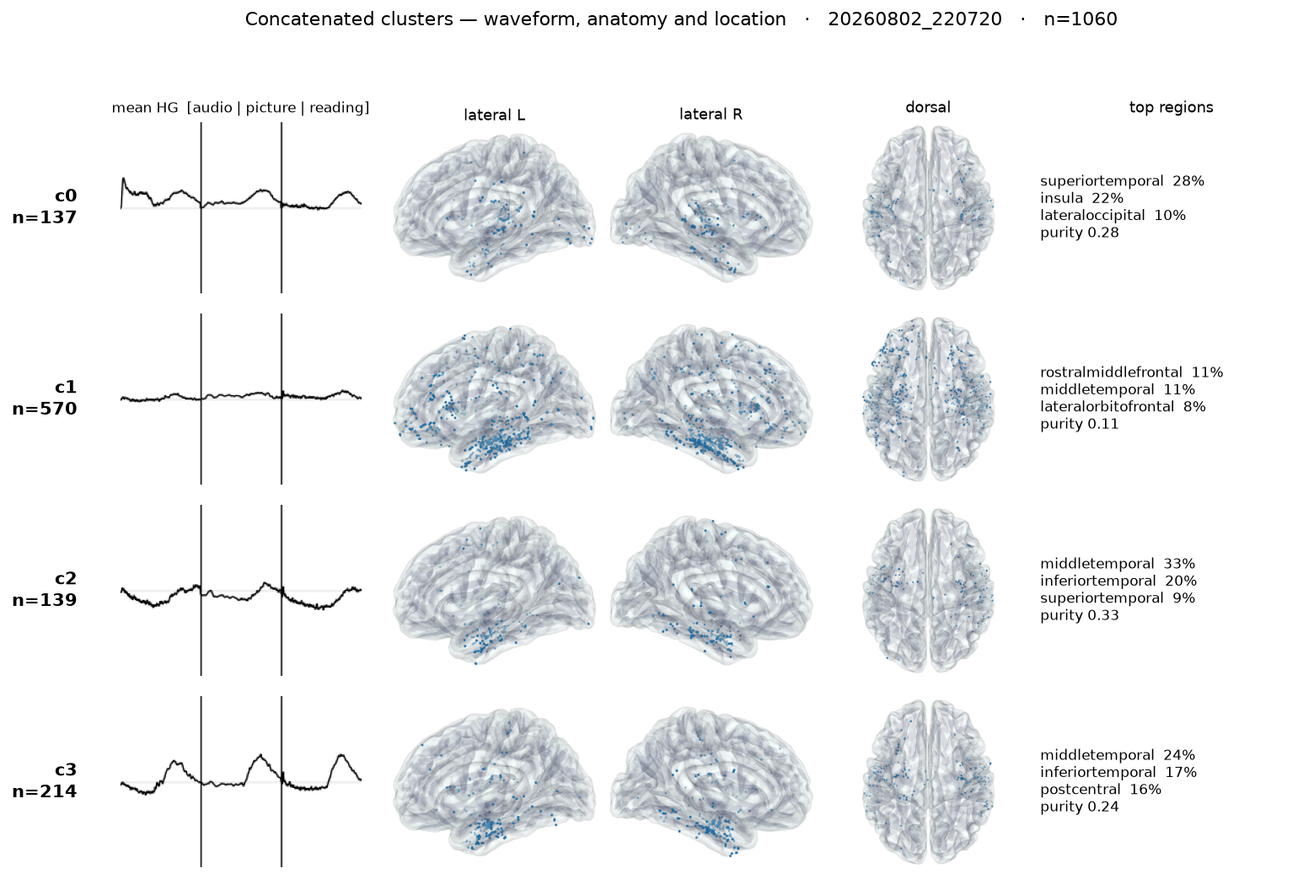
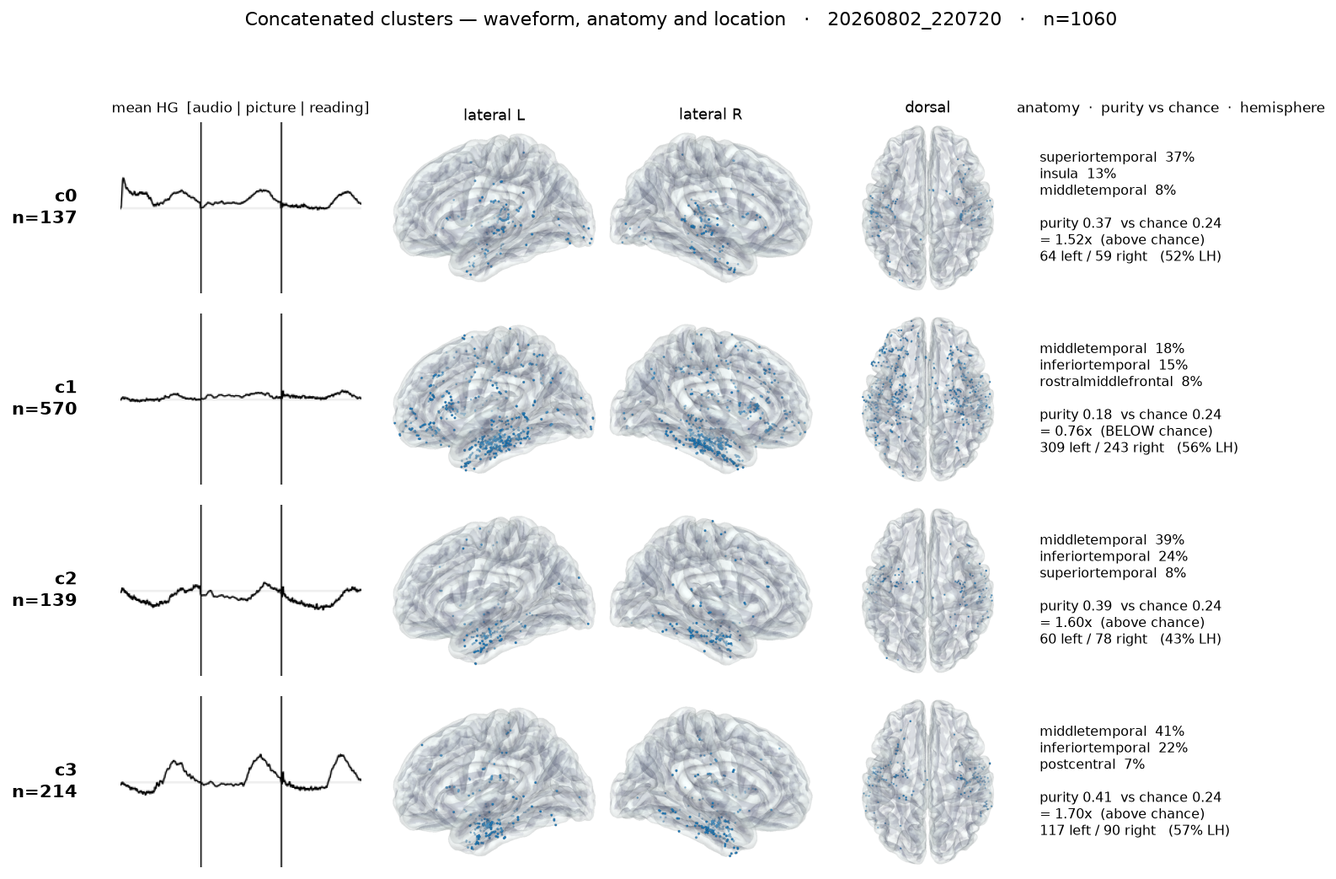
fix the aparc join, purity vs chance, noisy shafts, full-range lag view
THE ANATOMY LABELS WERE WRONG, and the figure shipped yesterday displayed them.
lf_anatomy keyed its aparc lookup on the RAW electrode string. The cache stores
"AL1"; a run's labels.csv carries "A_L1". 45% of contacts therefore fell into
"unknown" and the pipeline reported that as anatomy rather than as a failed join.

  raw        582/1060 matched
  normalised 1020/1060 matched
  and the largest cluster's top region changed rostralmiddlefrontal -> middletemporal

Third instance of the same bug class after the recon aI/al homoglyph. The real
lesson is that no join here asserted its own yield, so lf_anatomy now warns above
30% unmatched.

PURITY WAS UNINTERPRETABLE AS REPORTED. I had written "purity is low (0.11-0.33),
the anatomical form of the modest silhouette" — unfalsifiable without a baseline.
Chance purity here is 0.24 (30 regions, skewed). Against it:
  c0 1.52x, c2 1.60x, c3 1.70x  (all p<0.001)   c1 0.76x — BELOW chance
So three clusters are genuinely anatomically coherent, which my caption denied, and
the 570-contact majority class is anatomically unstructured — a sharper statement
than "all low". Cards now show the ratio, the verdict and hemisphere counts
(43-57% LH: these types are not left-lateralised).

NOISY SHAFTS. PAT_3415 IMG/TA/IPG excluded for signal quality. Kept separate from
GRID_SHAFTS because the reason differs — a grid contact is a valid recording of the
wrong kind, these are unusable. Applied in prepare_dataset so per-condition and
[…]

diff --git a/analysis_status.html b/analysis_status.html
@@ -623,9 +623,22 @@
         <li><b>How to read it.</b> Blue spheres are that cluster's electrodes; the translucent shell is
           the fsaverage surface, drawn for shape only. Each lateral shows <b>only its own hemisphere</b>,
           both seen from <b>outside</b>, so comparing L with R is a genuine left/right comparison.
-          <b>Purity</b> is the fraction of the cluster in its single commonest region — all four are
-          low (0.11–0.33), which is the anatomical form of the modest silhouette: these clusters are
-          functional types spread across cortex, not territories.</li>
+          <b>Purity is reported against chance</b>, not raw. With 30 regions and a skewed
+          distribution a random draw already reaches 0.24, so a raw purity of 0.18 is <i>below</i>
+          chance and 0.41 is genuinely coherent — the raw number alone says nothing. Three of the four
+          clusters are <b>1.5–1.7&times; chance</b> (p &lt; 0.001); <b>c1 is 0.76&times;, i.e. below chance</b>,
+          which is what you would expect of a leftover bin holding 54% of the data.</li>
+        <li><b>The region labels were wrong until 3 Aug.</b> Half the contacts were reported as
+          "unknown", which read as an anatomical fact and was actually a <b>join failure</b>: the aparc
+          cache stores electrodes stripped (<code>AL1</code>) while a run's labels carry the clinical
+          spelling (<code>A_L1</code>), and the lookup keyed on the raw string. Normalising both sides
+          took the match from <b>55% to 96%</b> and <b>changed the largest cluster's top region</b> from
+          <code>rostralmiddlefrontal</code> to <code>middletemporal</code>. Same class of bug as the
+          recon <code>aI</code>/<code>al</code> homoglyph, in a module that was not checked when that one
+          was fixed.</li>
+        <li><b>Hemisphere counts</b> are given per cluster. They are close to balanced (43–57% LH),
+          which is worth stating plainly for a language study — these functional types are not
+          left-lateralised.</li>
         <li><b>Dot density reflects where electrodes were implanted</b> (clinical decisions). An empty
           region means "not sampled", never "not involved".</li>
       </ul></div>
@@ -680,6 +693,21 @@
           and treat the exact percentage as approximate.</li>
       </ul></div>
       <div class="imgwrap"><img data-fig="02_FBM_Clustering/outputs/clustering/kmeans/concat_hg/runs/20260802_220720/timing/xcorr_K10_ref-c1_response.png" alt="cross-correlation lag profiles"></div>
+    </figure>
+
+    <figure><div class="cap"><div class="fignum">FIG 2.19</div><h4>The same profiles over the full lag range</h4>
+      <ul>
+        <li>The figure above is cropped to the trustworthy window. This is the <b>whole</b> lag axis
+          (±47% of the trial) with <b>y fixed to the full [−1, +1]</b>, so nothing is hidden by
+          auto-scaling.</li>
+        <li><b>Why the crop exists.</b> The shaded band is ±20%, where the two segments still overlap by
+          at least 60%. Outside it the correlation is computed on a shrinking tail and swings back toward
+          ±1 — the wild oscillation past ±40% is that artefact, not structure. Reading a peak from
+          out there would be reading noise.</li>
+        <li>Curves are dashed wherever the interpretability gate fails at that lag range, so the solid
+          ones are those whose peak survives the wider search.</li>
+      </ul></div>
+      <div class="imgwrap"><img data-fig="02_FBM_Clustering/outputs/clustering/kmeans/concat_hg/runs/20260802_220720/timing/xcorr_K10_ref-c1_response_fullrange.png" alt="full lag range"></div>
     </figure>
   </section>
 
@@ -1388,7 +1416,8 @@
     <p class="lead">A dated log across the four stages. Every day lists all four, so a blank is explicit &mdash;
       <span class="nb-na">N/A</span> means that stage was untouched, not that the entry is missing.
       Newest first; links jump to the relevant tab.</p>
-<div class="nb-day"><div class="nb-date"><span>2026-08-02</span><span class="tag">clean cohort + lead/lag</span></div><div class="nb-row"><div class="nb-stage">01 &middot; ERSP</div><div class="nb-body"><span class="nb-na">N/A</span></div></div><div class="nb-row"><div class="nb-stage">02 &middot; Clustering</div><div class="nb-body"><ul><li>Grid exclusion moved to <b>contact</b> level &mdash; PAT_3415 keeps its 51 depth electrodes, loses its 64 grid contacts. 233 re-run: <b>1116 &rarr; 1060</b>. Silhouette 0.195 &rarr; 0.164, best K 5 &rarr; 4.</li><li>Whole site repointed at the clean run; <a href="#s2">FIG 2.8/2.11</a> rebuilt, <a href="#s2">FIG 2.17</a> (glassbrain recon) added.</li><li>New <code>215_concat_crosscorrelation</code> &mdash; lead/lag against the auditory cluster. Found the full-trial window invalid (0/8 lags agree with real timing) and the response window valid (8/8); the label-shuffle null on <i>r</i> is useless (p=1.000), so the bootstrap CI is the reported statistic. <a href="#s2">FIG 2.18</a>.</li><li>Two more rejected matplotlib renders found still in place (FIG 2.8 anatomy chips, FIG 2.9) and replaced with the project glassbrain.</li></ul></div></div><div class="nb-row"><div class="nb-stage">03 &middot; Decoding</div><div class="nb-body"><span class="nb-na">N/A</span></div></div><div class="nb-row"><div class="nb-stage">04 &middot; Pooling</div><div class="nb-body"><ul><li>ERSP &times; P(language) map redrawn in <code>berlin</code>, overlays stripped. It only existed as ad-hoc cells, so it is now <code>make_fedorenko_corr.py</code> and reproducible: 2724 contacts, 26.3% of bins survive FDR.</li></ul></div></div></div>
+<div class="nb-day"><div class="nb-date"><span>2026-08-03</span><span class="tag">a third unnormalised join</span></div><div class="nb-row"><div class="nb-stage">01 &middot; ERSP</div><div class="nb-body"><ul><li><code>PAT_3415</code> <code>IMG/TA/IPG</code> shafts excluded as noise-contaminated, in <code>prepare_dataset</code> so every track inherits it; added to the dataset cache key.</li></ul></div></div><div class="nb-row"><div class="nb-stage">02 &middot; Clustering</div><div class="nb-body"><ul><li><b>Anatomy labels were wrong.</b> <code>lf_anatomy</code> keyed its aparc join on the raw electrode string, so 45% of contacts fell into &quot;unknown&quot; and that read as anatomy. Normalised: <b>55% &rarr; 96% matched</b>, and the largest cluster's top region changed. Third instance of the same bug class. <a href="#integrity">Data integrity</a>.</li><li>Purity now reported <b>against chance</b> (0.24 with 30 regions): c0/c2/c3 are 1.5&ndash;1.7&times;, <b>c1 is 0.76&times; &mdash; below chance</b>. Cards gain hemisphere counts. <a href="#s2">FIG 2.17</a>.</li><li>Added the full-range lag view. <a href="#s2">FIG 2.19</a>.</li></ul></div></div><div class="nb-row"><div class="nb-stage">03 &middot; Decoding</div><div class="nb-body"><span class="nb-na">N/A</span></div></div><div class="nb-row"><div class="nb-stage">04 &middot; Pooling</div><div class="nb-body"><span class="nb-na">N/A</span></div></div></div>
+        <div class="nb-day"><div class="nb-date"><span>2026-08-02</span><span class="tag">clean cohort + lead/lag</span></div><div class="nb-row"><div class="nb-stage">01 &middot; ERSP</div><div class="nb-body"><span class="nb-na">N/A</span></div></div><div class="nb-row"><div class="nb-stage">02 &middot; Clustering</div><div class="nb-body"><ul><li>Grid exclusion moved to <b>contact</b> level &mdash; PAT_3415 keeps its 51 depth electrodes, loses its 64 grid contacts. 233 re-run: <b>1116 &rarr; 1060</b>. Silhouette 0.195 &rarr; 0.164, best K 5 &rarr; 4.</li><li>Whole site repointed at the clean run; <a href="#s2">FIG 2.8/2.11</a> rebuilt, <a href="#s2">FIG 2.17</a> (glassbrain recon) added.</li><li>New <code>215_concat_crosscorrelation</code> &mdash; lead/lag against the auditory cluster. Found the full-trial window invalid (0/8 lags agree with real timing) and the response window valid (8/8); the label-shuffle null on <i>r</i> is useless (p=1.000), so the bootstrap CI is the reported statistic. <a href="#s2">FIG 2.18</a>.</li><li>Two more rejected matplotlib renders found still in place (FIG 2.8 anatomy chips, FIG 2.9) and replaced with the project glassbrain.</li></ul></div></div><div class="nb-row"><div class="nb-stage">03 &middot; Decoding</div><div class="nb-body"><span class="nb-na">N/A</span></div></div><div class="nb-row"><div class="nb-stage">04 &middot; Pooling</div><div class="nb-body"><ul><li>ERSP &times; P(language) map redrawn in <code>berlin</code>, overlays stripped. It only existed as ad-hoc cells, so it is now <code>make_fedorenko_corr.py</code> and reproducible: 2724 contacts, 26.3% of bins survive FDR.</li></ul></div></div></div>
         <div class="nb-day"><div class="nb-date"><span>2026-08-02</span><span class="tag">cluster timing</span></div><div class="nb-row"><div class="nb-stage">01 &middot; ERSP</div><div class="nb-body"><span class="nb-na">N/A</span></div></div><div class="nb-row"><div class="nb-stage">02 &middot; Clustering</div><div class="nb-body"><ul><li>New <code>214_concat_timingranking</code> + <code>lf_cluster_timing.py</code> &mdash; onset ordering for clusters, onset definition identical to pooling. <a href="#s2">FIG 2.11</a>.</li><li>Split onset into <b>stimulus</b> (0&ndash;50%) and <b>response</b> (50&ndash;100%) windows; flagged carry-over onsets (5 of 15 cells at K=5 were already active at GO).</li><li>Rewrote the across-K figure after finding it misleading: added lineage tracking, the cluster-size confound (rho +0.50 to +0.53) and coverage. <a href="#s2">FIG 2.12</a>.</li><li>Fixed colours disagreeing between the ladder and the time course; combined them into one shared-x panel.</li></ul></div></div><div class="nb-row"><div class="nb-stage">03 &middot; Decoding</div><div class="nb-body"><span class="nb-na">N/A</span></div></div><div class="nb-row"><div class="nb-stage">04 &middot; Pooling</div><div class="nb-body"><ul><li>Found that 460 never persists the role onsets it computes &mdash; blocks the cluster-vs-role comparison.</li></ul></div></div></div>
         <div class="nb-day"><div class="nb-date"><span>2026-08-02</span><span class="tag">atlas + K selection</span></div><div class="nb-row"><div class="nb-stage">01 &middot; ERSP</div><div class="nb-body"><span class="nb-na">N/A</span></div></div><div class="nb-row"><div class="nb-stage">02 &middot; Clustering</div><div class="nb-body"><ul><li>Excluded <b>PAT_3415</b>'s 64-contact grid (<code>GA&hellip;GH</code>) from the concatenated track &mdash; at <b>contact</b> level, so its 51 depth electrodes are kept. Sample count 1116 &rarr; <b>1060</b> on re-run.</li><li>Scored <b>every K</b> in the sweep, not just the winner &rarr; <code>sweep_metrics.csv</code> (silhouette, Calinski-Harabasz, Davies-Bouldin, singletons, size CV).</li><li>Rebuilt <a href="#s2">FIG 2.2</a> horizontal and sortable by any criterion; flags singleton-producing K in red. Surfaced that every K &ge; 13 except 15 emits a singleton.</li></ul></div></div><div class="nb-row"><div class="nb-stage">03 &middot; Decoding</div><div class="nb-body"><span class="nb-na">N/A</span></div></div><div class="nb-row"><div class="nb-stage">04 &middot; Pooling</div><div class="nb-body"><ul><li>Fixed the LanA run &mdash; <code>labels.csv</code> had no <code>file_path</code>, which blocked 252 and broke MOBA.</li><li>Built 6 LanA partitions as clustering runs so the project glassbrain renders them: 2 cohorts &times; (P&ge;0.05, P&ge;0.10, 5-band continuous). <a href="#lana">FIG 3a.R1&ndash;R3</a>.</li><li>Fixed inside-out lateral views in <code>lf_brainview</code> &mdash; both hemispheres were drawn medially.</li></ul></div></div></div><div class="nb-day"><div class="nb-date"><span>2026-08-01</span><span class="tag">recon payoff</span></div><div class="nb-row"><div class="nb-stage">01 &middot; ERSP</div><div class="nb-body"><span class="nb-na">N/A</span></div></div><div class="nb-row"><div class="nb-stage">02 &middot; Clustering</div><div class="nb-body"><ul><li>Ran 252 on the post-fix runs &mdash; <b>23/25</b> registered runs now have a recon. Concat reports <code>1060 electrodes (clean cohort)</code>, all six white matter.</li><li>Pruned 14 phantom <code>index.json</code> entries (39 registered vs 25 on disk).</li><li>Fixed the 213 crash (atlas run carries no silhouette) and added <code>concat_hg</code> to the ranked sets.</li><li>Freed 562.8 MB of unreferenced runs via <code>cleanup_stale.py</code>.</li></ul></div></div><div class="nb-row"><div class="nb-stage">03 &middot; Decoding</div><div class="nb-body"><span class="nb-na">N/A</span></div></div><div class="nb-row"><div class="nb-stage">04 &middot; Pooling</div><div class="nb-body"><ul><li>Re-ran 460 &mdash; <b>the export gap closed</b>. All 1143 role-matched contacts reach <code>pool_web</code>, which grew <b>2644 &rarr; 2724</b>.</li></ul></div></div></div><div class="nb-day"><div class="nb-date"><span>2026-07-31</span><span class="tag">the recon fix</span></div><div class="nb-row"><div class="nb-stage">01 &middot; ERSP</div><div class="nb-body"><ul><li>Excluded GVA microelectrodes and the discarded <code>X1M/X2M</code> channels from the macro pipelines.</li></ul></div></div><div class="nb-row"><div class="nb-stage">02 &middot; Clustering</div><div class="nb-body"><ul><li>Diagnosed the recon gap: <b>not</b> missing localisation &mdash; an <code>aI</code>/<code>al</code> homoglyph plus four shaft-naming conventions. <b>126 unplottable &rarr; 8</b>, no FreeSurfer re-run.</li><li>Wrote <code>audit_coverage.py</code> &mdash; per-patient, 5-stage drop-out audit reporting only failures. <a href="#integrity">Data integrity</a>.</li></ul></div></div><div class="nb-row"><div class="nb-stage">03 &middot; Decoding</div><div class="nb-body"><span class="nb-na">N/A</span></div></div><div class="nb-row"><div class="nb-stage">04 &middot; Pooling</div><div class="nb-body"><span class="nb-na">N/A</span></div></div></div><div class="nb-day"><div class="nb-date"><span>2026-07-29</span><span class="tag">atlas as a run</span></div><div class="nb-row"><div class="nb-stage">01 &middot; ERSP</div><div class="nb-body"><span class="nb-na">N/A</span></div></div><div class="nb-row"><div class="nb-stage">02 &middot; Clustering</div><div class="nb-body"><span class="nb-na">N/A</span></div></div><div class="nb-row"><div class="nb-stage">03 &middot; Decoding</div><div class="nb-body"><span class="nb-na">N/A</span></div></div><div class="nb-row"><div class="nb-stage">04 &middot; Pooling</div><div class="nb-body"><ul><li>Registered the LanA in/out split as a normal clustering run so 252 renders it; added the Desikan-Killiany gyrus breakdown.</li></ul></div></div></div><div class="nb-day"><div class="nb-date"><span>2026-07-28</span><span class="tag">language atlas</span></div><div class="nb-row"><div class="nb-stage">01 &middot; ERSP</div><div class="nb-body"><span class="nb-na">N/A</span></div></div><div class="nb-row"><div class="nb-stage">02 &middot; Clustering</div><div class="nb-body"><ul><li>Concatenated clustering &mdash; all 6 runs + per-cluster centroid chips. <code>concat_hg</code> beats per-condition (0.201 vs 0.152).</li></ul></div></div><div class="nb-row"><div class="nb-stage">03 &middot; Decoding</div><div class="nb-body"><span class="nb-na">N/A</span></div></div><div class="nb-row"><div class="nb-stage">04 &middot; Pooling</div><div class="nb-body"><ul><li>Fedorenko/LanA analysis: threshold sweep, ERSP &times; P(language) correlation maps, in/out split. <a href="#lana">3a</a>.</li><li>Fig 8 per-bin scatters and Fig 9 recoloured green&rarr;yellow to the supervisor's spec.</li><li>Multi-label attribution matrices &mdash; 70% of Neurosynth-loaded contacts cleanly attributable, 30% multi-load.</li></ul></div></div></div><div class="nb-day"><div class="nb-date"><span>2026-07-19</span><span class="tag">full refresh</span></div><div class="nb-row"><div class="nb-stage">01 &middot; ERSP</div><div class="nb-body"><span class="nb-na">N/A</span></div></div><div class="nb-row"><div class="nb-stage">02 &middot; Clustering</div><div class="nb-body"><ul><li>HG re-clustered, <b>K=9</b>, silhouette 0.152, n=2102, with consensus stability.</li></ul></div></div><div class="nb-row"><div class="nb-stage">03 &middot; Decoding</div><div class="nb-body"><ul><li>Notebooks regenerated from <code>_build_notebooks.py</code>; comparison figures + &Delta;-confusion rebuilt. <a href="#s3">stage 03</a>.</li></ul></div></div><div class="nb-row"><div class="nb-stage">04 &middot; Pooling</div><div class="nb-body"><ul><li>Re-ran 460/465/470/480/490 &mdash; refreshed figures and the gaussian variant.</li></ul></div></div></div><div class="nb-day"><div class="nb-date"><span>2026-07-06</span><span class="tag"></span></div><div class="nb-row"><div class="nb-stage">01 &middot; ERSP</div><div class="nb-body"><span class="nb-na">N/A</span></div></div><div class="nb-row"><div class="nb-stage">02 &middot; Clustering</div><div class="nb-body"><span class="nb-na">N/A</span></div></div><div class="nb-row"><div class="nb-stage">03 &middot; Decoding</div><div class="nb-body"><ul><li>391 paired feature comparison &mdash; per-patient Wilcoxon + &Delta;-confusion. Confirmed HFA beats the full band (0.596 vs 0.535).</li></ul></div></div><div class="nb-row"><div class="nb-stage">04 &middot; Pooling</div><div class="nb-body"><span class="nb-na">N/A</span></div></div></div><div class="nb-day"><div class="nb-date"><span>2026-07-03</span><span class="tag"></span></div><div class="nb-row"><div class="nb-stage">01 &middot; ERSP</div><div class="nb-body"><span class="nb-na">N/A</span></div></div><div class="nb-row"><div class="nb-stage">02 &middot; Clustering</div><div class="nb-body"><ul><li>Single centroid writer (per-K, no leakage) + SEM shading on the HG centroids.</li></ul></div></div><div class="nb-row"><div class="nb-stage">03 &middot; Decoding</div><div class="nb-body"><span class="nb-na">N/A</span></div></div><div class="nb-row"><div class="nb-stage">04 &middot; Pooling</div><div class="nb-body"><span class="nb-na">N/A</span></div></div></div><div class="nb-day"><div class="nb-date"><span>2026-07-01</span><span class="tag"></span></div><div class="nb-row"><div class="nb-stage">01 &middot; ERSP</div><div class="nb-body"><span class="nb-na">N/A</span></div></div><div class="nb-row"><div class="nb-stage">02 &middot; Clustering</div><div class="nb-body"><ul><li><code>silhouette_per_cluster.png</code> &rarr; knife plot + PCA projection.</li></ul></div></div><div class="nb-row"><div class="nb-stage">03 &middot; Decoding</div><div class="nb-body"><span class="nb-na">N/A</span></div></div><div class="nb-row"><div class="nb-stage">04 &middot; Pooling</div><div class="nb-body"><ul><li>poolv2: wired the HGA dB gradient onto electrodes, fixed the single-role multi-colour bug and palette clashes.</li></ul></div></div></div><div class="nb-day"><div class="nb-date"><span>2026-06-30</span><span class="tag">convergence</span></div><div class="nb-row"><div class="nb-stage">01 &middot; ERSP</div><div class="nb-body"><span class="nb-na">N/A</span></div></div><div class="nb-row"><div class="nb-stage">02 &middot; Clustering</div><div class="nb-body"><span class="nb-na">N/A</span></div></div><div class="nb-row"><div class="nb-stage">03 &middot; Decoding</div><div class="nb-body"><span class="nb-na">N/A</span></div></div><div class="nb-row"><div class="nb-stage">04 &middot; Pooling</div><div class="nb-body"><ul><li>Fixed poolv2 &harr; notebook convergence &mdash; <b>194+ role-match flips &rarr; 0</b> (block-mean vs anti-aliased resize, plus cube quantisation).</li><li>Restored the developed premotor-planning role; fixed <code>role_info</code> UTF-8 corruption.</li></ul></div></div></div>
   </section>
@@ -1502,6 +1531,32 @@
         thing. Excluded from the concatenated track only.</li>
     </ul></div>
 
+    <h3>The same bug, a third time — unnormalised joins</h3>
+    <p>The recon gap was an <code>aI</code>/<code>al</code> mismatch. The anatomy labels turned out to be
+      the same failure in a different module, and it had been silently degrading every purity estimate.</p>
+    <div class="method"><ul>
+      <li><code>lf_anatomy</code> keyed its aparc lookup on the <b>raw</b> electrode string. The cache
+        stores <code>AL1</code>; a run's <code>labels.csv</code> carries <code>A_L1</code>. Result:
+        <b>45% of contacts fell into "unknown"</b> and the pipeline reported it as anatomy.</li>
+      <li>Normalising both sides: <b>582/1060 &rarr; 1020/1060 matched</b>. Purity rose in every cluster and
+        the <b>largest cluster's top region changed</b>.</li>
+      <li>The lesson is not "fix this join" but that <b>no join in this pipeline asserted its own yield</b>.
+        <code>lf_anatomy</code> now warns when more than 30% of contacts fail to match, because at that
+        level the explanation is almost never "these contacts are unlocalised".</li>
+    </ul></div>
+
+    <h3>Noise-contaminated shafts</h3>
+    <div class="method"><ul>
+      <li><code>PAT_3415</code>'s <code>IMG</code>, <code>TA</code> and <code>IPG</code> shafts are heavily
+        noise-contaminated and are now excluded, leaving <code>OI</code>, <code>OS</code>, <code>TM</code>,
+        <code>TP</code> as its usable depth coverage.</li>
+      <li>Kept <b>separate from the grid rule</b> on purpose: a grid contact is a valid recording of the
+        wrong kind, whereas these are unusable. Different reasons should not share a list.</li>
+      <li>Applied in <code>prepare_dataset</code>, so <b>every</b> track drops them — per-condition and
+        concatenated alike — and the exclusion is part of the dataset cache key, so a cache built before
+        the shaft was blacklisted cannot be silently reused.</li>
+    </ul></div>
+
     <h3>Registry repairs</h3>
     <div class="method"><ul>
       <li><b>The clustering registry crashed every run.</b> Registering the language‑atlas partition wrote bare
@@ -1538,6 +1593,11 @@
 
     <h3>Still to run</h3>
     <div class="method"><ul>
+      <li><b>Re-run everything (3 Aug changes).</b> Two changes invalidate the current runs:
+        <code>PAT_3415</code>'s noisy <code>IMG/TA/IPG</code> shafts are now excluded from
+        <b>all</b> tracks, and the aparc join is fixed. Order: 233 &rarr; 211 &rarr; 213 &rarr; 252,
+        then 214/215 and <code>make_cluster_cards.py</code>. Every cluster count and every anatomy
+        label on this page predates both fixes.</li>
       <li><b>Re‑run the concatenated clustering (233).</b> <code>PAT_3415</code>'s subdural grid was still in
         it. The exclusion is now at <b>contact</b> level, not patient level: its <b>56 grid contacts</b>
         (<code>GA…GH</code>) are dropped while its <b>51 depth contacts</b>

diff --git a/02_FBM_Clustering/make_cluster_cards.py b/02_FBM_Clustering/make_cluster_cards.py
@@ -53,6 +53,26 @@ def crop_to_content(path: Path, pad: int = 12, thr: int = 245):
     return a[y0:y1, x0:x1]
 
 
+def chance_purity(labels_by_region: pd.Series, n: int, n_draw: int = 400, seed: int = 0) -> float:
+    """Purity a cluster of this size would reach by drawing regions at random.
+
+    Raw purity is uninterpretable on its own: with a skewed region distribution a
+    random draw already lands ~0.24 here, so a cluster at 0.18 is BELOW chance and one
+    at 0.41 is genuinely coherent. Reporting the ratio instead of the raw number is the
+    difference between "all our clusters are anatomically weak" and the truth.
+    """
+    rng = np.random.default_rng(seed)
+    vals = labels_by_region.to_numpy()
+    if n < 1 or len(vals) < n:
+        return float("nan")
+    out = np.empty(n_draw)
+    for i in range(n_draw):
+        s = rng.choice(vals, n, replace=False)
+        _, c = np.unique(s, return_counts=True)
+        out[i] = c.max() / n
+    return float(out.mean())
+
+
 def top_regions(anat: pd.DataFrame, cid: int, k: int = 3):
     row = anat[anat["cluster_id"] == cid]
     if not len(row):
@@ -142,8 +162,28 @@ def main() -> int:
     labels = pd.read_csv(run / "labels.csv")
     ccol = next(c for c in labels.columns if c.startswith("cluster_") and not c.endswith("_ranked"))
     sizes = labels[ccol].value_counts().to_dict()
-    anat_p = run / "per_cluster_anatomy.csv"
-    anat = pd.read_csv(anat_p) if anat_p.exists() else pd.DataFrame(columns=["cluster_id"])
+    # Recompute the region labels here with a NORMALISED join. per_cluster_anatomy.csv
+    # is written by 211, and any copy produced before the lf_anatomy fix keyed on the raw
+    # electrode string and dropped ~45% of contacts into "unknown".
+    def _nz(s):
+        return str(s).replace("_", "").replace("-", "").upper()
+
+    apath = ROOT / "outputs" / "250_recon" / "fsaverage" / "aparc_lookup.csv"
+    lut, hemi_lut = {}, {}
+    if apath.exists():
+        _ap = pd.read_csv(apath)
+        lut = {(str(q), _nz(e)): str(l)
+               for q, e, l in zip(_ap["patient"], _ap["electrode"], _ap["aparc_label"])}
+        if "hemi" in _ap.columns:
+            hemi_lut = {(str(q), _nz(e)): str(h)
+                        for q, e, h in zip(_ap["patient"], _ap["electrode"], _ap["hemi"])}
+    labels["_reg"] = [lut.get((str(q), _nz(e)), "unknown")
+                      for q, e in zip(labels["patient_id"], labels["electrode"])]
+    labels["_hemi"] = [hemi_lut.get((str(q), _nz(e)), "?")
+                       for q, e in zip(labels["patient_id"], labels["electrode"])]
+    known = labels[labels["_reg"] != "unknown"]
+    print(f"  region labels: {len(known)}/{len(labels)} matched "
+          f"({100*len(known)/max(len(labels),1):.0f}%)")
 
     ncol = 1 + len(VIEWS) + 1                       # waveform + views + text
     widths = [1.35] + [1.0] * len(VIEWS) + [1.25]
@@ -175,18 +215,30 @@ def main() -> int:
                 axb.set_title(v.replace("_", " "), fontsize=9)
 
         axt = axes[r, ncol - 1]
-        tops = top_regions(anat, cid)
-        if tops:
-            lines = [f"{nm[:22]}  {100*pr:.0f}%" for nm, pr in tops]
-            row = anat[anat["cluster_id"] == cid]
-            if len(row) and "purity" in row:
-                lines.append(f"purity {float(row.iloc[0]['purity']):.2f}")
+        sub = labels[labels[ccol] == cid]
+        kn = sub[sub["_reg"] != "unknown"]
+        lines = []
+        if len(kn):
+            vc = kn["_reg"].value_counts()
+            for nm, cnt in vc.head(3).items():
+                lines.append(f"{nm[:20]}  {100*cnt/len(kn):.0f}%")
+            pur = vc.iloc[0] / len(kn)
+            ch = chance_purity(known["_reg"], len(kn))
+            ratio = pur / ch if ch and np.isfinite(ch) else float("nan")
+            verdict = ("above chance" if ratio > 1.15 else
+                       "BELOW chance" if ratio < 0.95 else "at chance")
+            lines += ["", f"purity {pur:.2f}  vs chance {ch:.2f}",
+                      f"= {ratio:.2f}x  ({verdict})"]
         else:
-            lines = ["no anatomy table"]
-        axt.text(0.0, 0.5, "\n".join(lines), fontsize=8.6, va="center", ha="left",
-                 family="DejaVu Sans", transform=axt.transAxes)
+            lines = ["no region match"]
+        h = sub["_hemi"].astype(str).str.upper().str[0]
+        nl, nr = int((h == "L").sum()), int((h == "R").sum())
+        if nl + nr:
+            lines.append(f"{nl} left / {nr} right   ({100*nl/(nl+nr):.0f}% LH)")
+        axt.text(0.0, 0.5, "\n".join(lines), fontsize=8.4, va="center", ha="left",
+                 transform=axt.transAxes)
         if r == 0:
-            axt.set_title("top regions", fontsize=9)
+            axt.set_title("anatomy  ·  purity vs chance  ·  hemisphere", fontsize=8.5)
 
         for axx in axes[r]:
             axx.set_xticks([]); axx.set_yticks([])

diff --git a/02_FBM_Clustering/functions/lf_dataset.py b/02_FBM_Clustering/functions/lf_dataset.py
@@ -150,6 +150,28 @@ def is_grid_electrode(label, patient_id=None) -> bool:
     return re.sub(r"\d+$", "", s) in {x.upper() for x in shafts}
 
 
+# Shafts excluded for SIGNAL QUALITY rather than geometry — heavy noise contamination
+# judged from the raw traces. Distinct from GRID_SHAFTS because the reason is different:
+# a grid contact is a valid recording of the wrong kind, whereas these are unusable.
+# Applied in prepare_dataset, so EVERY track (per-condition and concatenated) drops them.
+#
+#   PAT_3415  IMG, TA, IPG — leaving OI, OS, TM, TP as its usable depth coverage.
+NOISY_SHAFTS: dict = {
+    "PAT_3415": ("IMG", "TA", "IPG"),
+}
+
+
+def is_noisy_electrode(label, patient_id=None) -> bool:
+    """True for a contact on a shaft listed in NOISY_SHAFTS for that patient."""
+    if label is None or patient_id is None:
+        return False
+    shafts = NOISY_SHAFTS.get(str(patient_id))
+    if not shafts:
+        return False
+    s = str(label).replace("_", "").replace("-", "").upper()
+    return re.sub(r"\d+$", "", s) in {x.upper() for x in shafts}
+
+
 # ============================================================
 # Public: prepare_dataset
 # ============================================================
@@ -191,6 +213,8 @@ def prepare_dataset(
         "task": task,
         "exclude_micro": bool(exclude_micro),   # part of the key: a cache built without
                                                 # the micro filter must not be reused
+        # Same reasoning: a cache built before a shaft was blacklisted still contains it.
+        "noisy_shafts": {k: sorted(v) for k, v in sorted(NOISY_SHAFTS.items())},
         "conditions": list(conditions),
         "n_freq": int(n_freq),
         "n_time": int(n_time),
@@ -292,6 +316,25 @@ def prepare_dataset(
             ersp_list = [ersp_list[i] for i in np.where(keep.to_numpy())[0]]
             if verbose:
                 print(f"  excluded {n_micro} microelectrode channels ({', '.join(shafts)}) "
+                      f"→ {len(df_meta)} samples")
+
+    # ---- Noise-contaminated shafts (per patient, see NOISY_SHAFTS) ----
+    # Excluded for signal quality, not geometry: unlike a grid contact these are not a
+    # valid recording of a different kind, they are unusable. Applied here rather than in
+    # lf_concat so the per-condition tracks drop them too.
+    if len(df_meta):
+        noisy_mask = df_meta.apply(
+            lambda r: is_noisy_electrode(r["electrode"], r["patient_id"]), axis=1)
+        n_noisy = int(noisy_mask.sum())
+        if n_noisy:
+            keep = ~noisy_mask
+            by = (df_meta.loc[noisy_mask].groupby("patient_id")["electrode"]
+                  .apply(lambda s: sorted({re.sub(r"\d+$", "", str(e).replace("_", "").upper())
+                                           for e in s})).to_dict())
+            df_meta = df_meta[keep].reset_index(drop=True)
+            ersp_list = [ersp_list[i] for i in np.where(keep.to_numpy())[0]]
+            if verbose:
+                print(f"  excluded {n_noisy} noise-contaminated channels {by} "
                       f"→ {len(df_meta)} samples")
 
     # ---- High-activity computation (always computed, optionally filtered) ----

diff --git a/02_FBM_Clustering/functions/lf_anatomy.py b/02_FBM_Clustering/functions/lf_anatomy.py
@@ -381,20 +381,36 @@ def cluster_anatomy_purity(
     df_aparc must have columns: patient, electrode, aparc_label
     df_labels must have the cluster col + patient_col + electrode_col.
     """
-    # Build a fast lookup
+    # Build a fast lookup.
+    #
+    # NORMALISE BOTH SIDES. The aparc cache stores electrodes stripped ("AL1") while a
+    # run's labels.csv carries the clinical spelling ("A_L1"), so keying on the raw
+    # string silently dropped 45% of contacts into "unknown" — a JOIN FAILURE that read
+    # as an anatomical fact and pushed every purity estimate down. Same class of bug as
+    # the recon aI/al homoglyph. Measured on kmeans/concat_hg 20260802_220720:
+    # raw 582/1060 matched, normalised 1020/1060, and the largest cluster's top region
+    # changed from rostralmiddlefrontal to middletemporal.
+    def _nz(s) -> str:
+        return str(s).replace("_", "").replace("-", "").upper()
+
     df_aparc = df_aparc.copy()
     df_aparc["patient"] = df_aparc["patient"].astype(str)
     df_aparc["electrode"] = df_aparc["electrode"].astype(str)
     lookup = {
-        (str(p), str(e)): str(lbl)
+        (str(p), _nz(e)): str(lbl)
         for p, e, lbl in zip(df_aparc["patient"], df_aparc["electrode"], df_aparc["aparc_label"])
     }
 
     df_l = df_labels.copy()
     df_l["aparc_label"] = [
-        lookup.get((str(p), str(e)), "unknown")
+        lookup.get((str(p), _nz(e)), "unknown")
         for p, e in zip(df_l[patient_col], df_l[electrode_col])
     ]
+    _miss = float((df_l["aparc_label"] == "unknown").mean())
+    if _miss > 0.30:
+        print(f"[lf_anatomy] WARNING: {100*_miss:.0f}% of contacts have no aparc label. "
+              f"Above ~15% usually means the join is failing, not that the contacts are "
+              f"unlocalised — check the electrode spelling on both sides.")
 
     out: Dict[int, Dict] = {}
     rng = np.random.default_rng(random_state)

diff --git a/02_FBM_Clustering/functions/lf_cluster_timing.py b/02_FBM_Clustering/functions/lf_cluster_timing.py
@@ -774,6 +774,8 @@ def plot_xcorr_profiles(table: pd.DataFrame, profiles: dict, *,
                         ref_cluster: int, order: Optional[Sequence[int]] = None,
                         shape_gate: float = DEFAULT_SHAPE_GATE,
                         title: str = "", width_per_panel: float = 7.2,
+                        ylim: Optional[tuple] = None,
+                        reliable_lag: Optional[float] = None,
                         out_png=None, dpi: int = 150):
     """Full r-vs-lag curve per cluster, one panel per condition, peak marked.
 
@@ -808,6 +810,15 @@ def plot_xcorr_profiles(table: pd.DataFrame, profiles: dict, *,
                 ax.scatter([x], [y], s=70, color=col, edgecolor="white", lw=1.2, zorder=5)
                 ax.annotate(f"{x:+.0f}%", (x, y), textcoords="offset points", xytext=(4, 5),
                             fontsize=8, color=col, fontweight="bold")
+        if reliable_lag:
+            # Beyond this the two segments overlap by less than the minimum, so the
+            # correlation is computed on a shrinking tail and drifts toward +/-1 for
+            # reasons that have nothing to do with alignment.
+            ax.axvspan(-reliable_lag, reliable_lag, color="#eef1f5", zorder=0)
+            ax.axvline(-reliable_lag, color="#9aa3ac", lw=0.8, ls=":", zorder=1)
+            ax.axvline(reliable_lag, color="#9aa3ac", lw=0.8, ls=":", zorder=1)
+        if ylim:
+            ax.set_ylim(*ylim)
         ax.set_title(cond.capitalize(), fontsize=11)
         ax.set_xlabel(f"lag (% of trial)   + = cluster LAGS behind c{ref_cluster}")
         ax.grid(alpha=.25)
